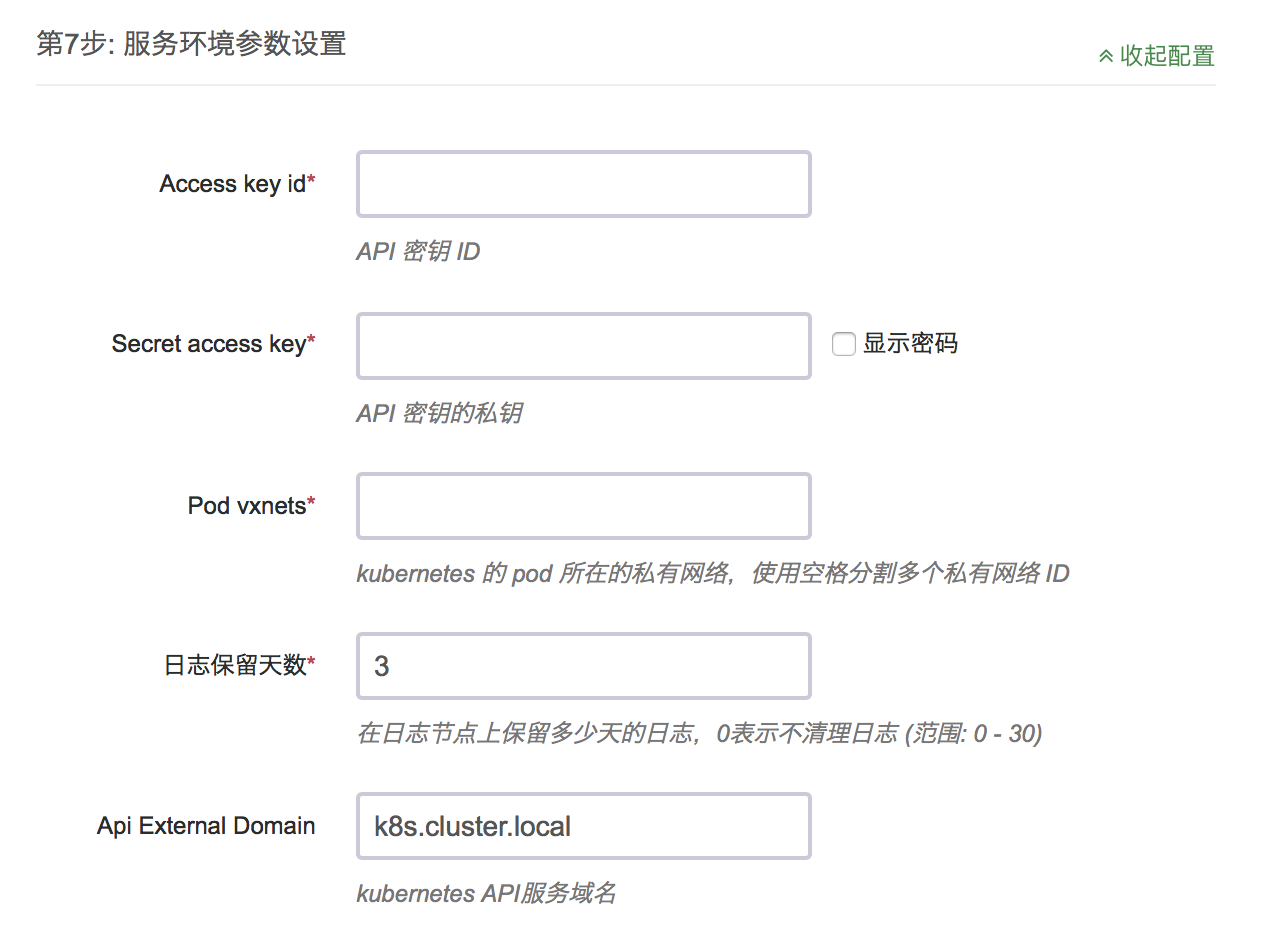
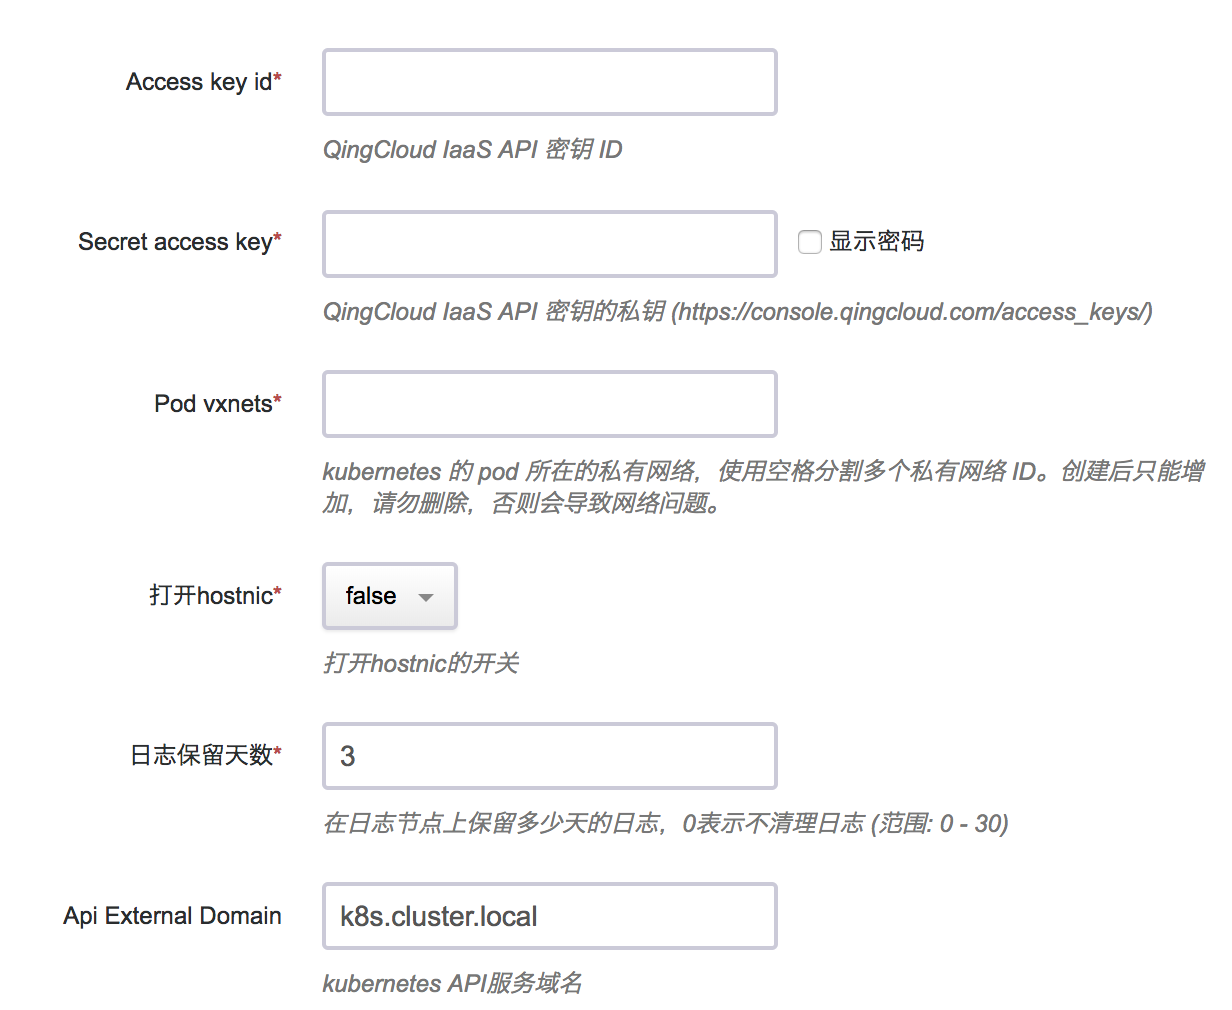
update hostnic docs

diff --git a/docs/kubernetes/README.md b/docs/kubernetes/README.md
@@ -31,6 +31,7 @@ Kubernetes 是一个开源的、用于管理云平台中多个主机上的容器
 ![](screenshot/网络配置.png)  
 如果用户不想使用 Kubernetes App 的日志节点和内置的日志管理工具，可以预先部署 [ELK App on QingCloud](https://appcenter.qingcloud.com/apps/app-p6au3oyq)，在此处选择其为Kubernetes 集群的依赖服务。<font color=red>**注意：日志节点数必须为0，ELK 集群必须和 Kubernetes 集群在同一 VPC 下。**</font>  
 
+
 ![](screenshot/依赖服务配置.png)  
 
 填写 Kubernetes 应用所需参数：  
@@ -38,7 +39,9 @@ Kubernetes 是一个开源的、用于管理云平台中多个主机上的容器
 
 * 为了更好地与青云基础设施集成，Kubernetes 应用需要使用您的 API 秘钥来调用 QingCloud IaaS API。请在控制台生成[秘钥](https://console.qingcloud.com/access_keys/)。  
 
-* Kubernetes 应用使用青云提供的 SDN2.0，创建的 Pod 都会绑定一个网卡，分配一个私网地址。这里可以设置所使用的私网 ID，私网需要预先准备好，如(vxnet-xxxxxxx)。建议给 Pod 设置专用的私网，每个私网可以容纳200多个 IP，如果您需要的容器数量较多，请填写多个，之间用空格切分。<font color=red>**Pod 的 vxnet 请不要复用 Kubernetes 所在的 vxnet，且应和 Kubernetes 集群所在的私网在同一 VPC 中**</font>。  
+* Kubernetes 应用可选使用青云提供的 SDN2.0，创建的 Pod 都会绑定一个网卡，分配一个私网地址。这里可以设置所使用的私网 ID，私网需要预先准备好，如(vxnet-xxxxxxx)。建议给 Pod 设置专用的私网，每个私网可以容纳200多个 IP，如果您需要的容器数量较多，请填写多个，之间用空格切分。<font color=red>**如果打开hostnic,Pod 的 vxnet 请不要复用 Kubernetes 所在的 vxnet，且应和 Kubernetes 集群所在的私网在同一 VPC 中。如果关闭hostnic,请填写Kubernetes 所在的 vxnet**</font>
+
+* 打开hostnic 如果没有特殊网络性能需求，可以关闭hostnic。主机上运行容器的的限制更少。
 
 * Kubernetes 应用内置了自定义日志监控功能，用户可以查询到所有 Kubernetes 管理的资源的日志。为了节省空间，日志会定期销毁。这里可以设置保存日志的天数。  
 
